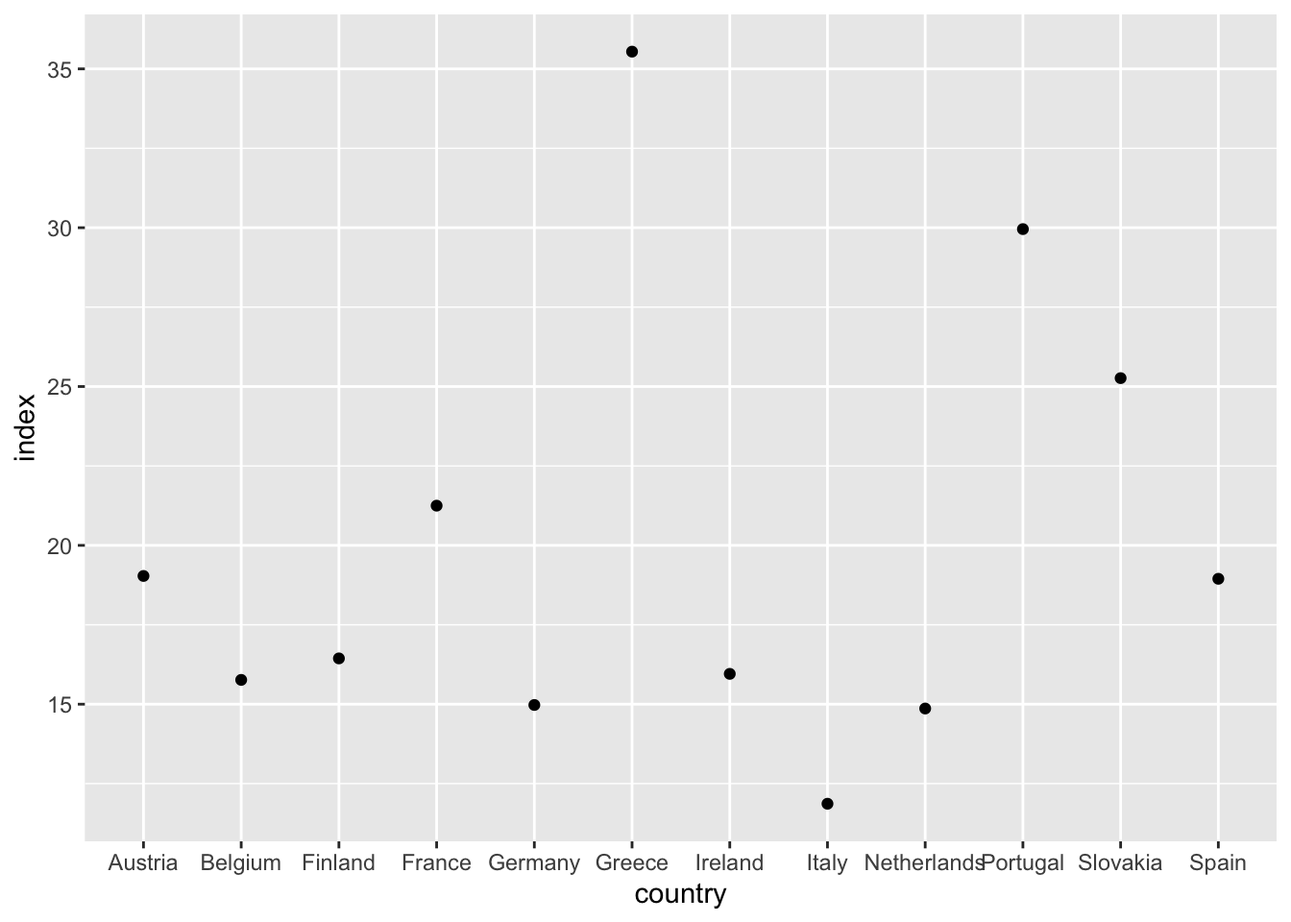
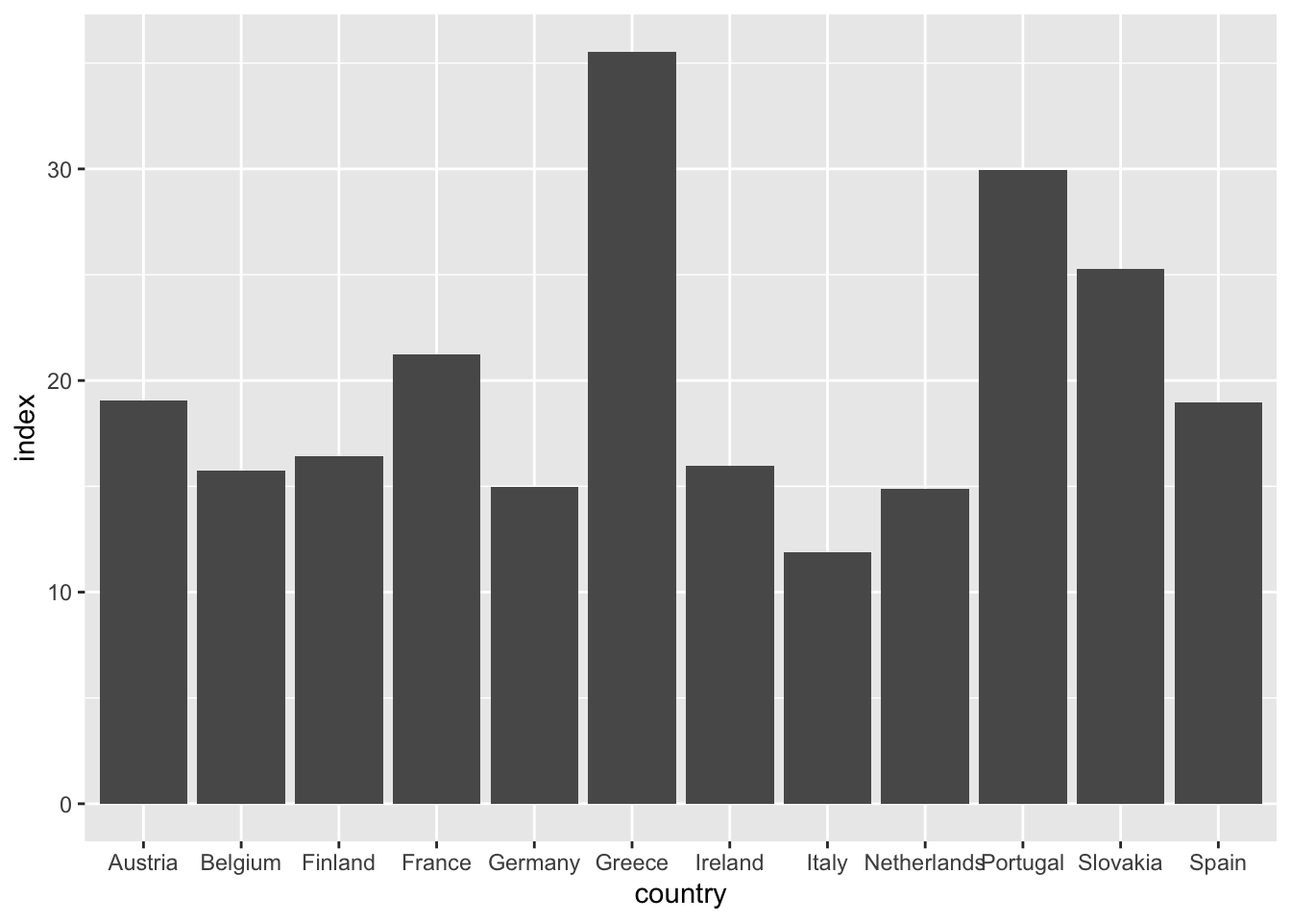
Built site for gh-pages

diff --git a/tt/HW1_212.html b/tt/HW1_212.html
@@ -437,11 +437,9 @@ cookieconsent.run({
         <nav id="TOC" role="doc-toc" class="toc-active" data-toc-expanded="99"><h2 id="toc-title">Table of contents</h2>
    
   <ul>
-<li><a href="#cappuccino-index-price-of-cappuccinohourly-wage-x-60" id="toc-cappuccino-index-price-of-cappuccinohourly-wage-x-60" class="nav-link active" data-scroll-target="#cappuccino-index-price-of-cappuccinohourly-wage-x-60">Cappuccino index = (price of cappuccino/hourly wage) x 60</a></li>
-  <li><a href="#arrange-descending-index-for-all-countries-and-then-filter-for-countries-with-10-or-more-entries" id="toc-arrange-descending-index-for-all-countries-and-then-filter-for-countries-with-10-or-more-entries" class="nav-link" data-scroll-target="#arrange-descending-index-for-all-countries-and-then-filter-for-countries-with-10-or-more-entries">Arrange descending index for all countries and then filter for countries with 10 or more entries</a></li>
-  <li><a href="#join-the-2-datasets-to-only-use-countries-with-10-or-more-entries-and-group-by-country" id="toc-join-the-2-datasets-to-only-use-countries-with-10-or-more-entries-and-group-by-country" class="nav-link" data-scroll-target="#join-the-2-datasets-to-only-use-countries-with-10-or-more-entries-and-group-by-country">Join the 2 datasets to only use countries with 10 or more entries and group by country</a></li>
-  <li><a href="#research-question-do-countries-with-original-currency-of-euros-tend-to-have-a-better-cappuccino-index" id="toc-research-question-do-countries-with-original-currency-of-euros-tend-to-have-a-better-cappuccino-index" class="nav-link" data-scroll-target="#research-question-do-countries-with-original-currency-of-euros-tend-to-have-a-better-cappuccino-index">Research Question: Do countries with original currency of Euros tend to have a better cappuccino index?</a></li>
-  <li><a href="#make-some-graphs" id="toc-make-some-graphs" class="nav-link" data-scroll-target="#make-some-graphs">Make some graphs!</a></li>
+<li><a href="#reseach-question-is-there-a-clear-difference-in-the-cappuccino-index-between-countries-that-use-euro-currency-vs-non-euro-currency" id="toc-reseach-question-is-there-a-clear-difference-in-the-cappuccino-index-between-countries-that-use-euro-currency-vs-non-euro-currency" class="nav-link active" data-scroll-target="#reseach-question-is-there-a-clear-difference-in-the-cappuccino-index-between-countries-that-use-euro-currency-vs-non-euro-currency">Reseach Question: Is there a clear difference in the Cappuccino Index between countries that use Euro currency vs non-Euro currency?</a></li>
+  <li><a href="#process" id="toc-process" class="nav-link" data-scroll-target="#process">Process</a></li>
+  <li><a href="#conclusion-there-is-a-clear-difference-between-countries-that-use-euro-currency-and-countries-that-dont.-however-their-means-are-relatively-similar-as-seen-on-the-graph.-india-is-a-huge-outlier-on-the-graph-which-was-expected-as-seen-in-the-video-by-james-hoffmann.-overall-there-are-many-more-countries-in-the-non-euro-dataset-meaning-that-it-isnt-surprising-for-there-to-be-a-much-wider-span-of-indexes." id="toc-conclusion-there-is-a-clear-difference-between-countries-that-use-euro-currency-and-countries-that-dont.-however-their-means-are-relatively-similar-as-seen-on-the-graph.-india-is-a-huge-outlier-on-the-graph-which-was-expected-as-seen-in-the-video-by-james-hoffmann.-overall-there-are-many-more-countries-in-the-non-euro-dataset-meaning-that-it-isnt-surprising-for-there-to-be-a-much-wider-span-of-indexes." class="nav-link" data-scroll-target="#conclusion-there-is-a-clear-difference-between-countries-that-use-euro-currency-and-countries-that-dont.-however-their-means-are-relatively-similar-as-seen-on-the-graph.-india-is-a-huge-outlier-on-the-graph-which-was-expected-as-seen-in-the-video-by-james-hoffmann.-overall-there-are-many-more-countries-in-the-non-euro-dataset-meaning-that-it-isnt-surprising-for-there-to-be-a-much-wider-span-of-indexes.">Conclusion: There is a clear difference between countries that use Euro currency and countries that don’t. However their means are relatively similar as seen on the graph. India is a huge outlier on the graph, which was expected as seen in the video by James Hoffmann. Overall, there are many more countries in the non euro dataset, meaning that it isn’t surprising for there to be a much wider span of indexes.</a></li>
   </ul></nav>
     </div>
 <!-- main -->
@@ -463,26 +461,30 @@ cookieconsent.run({
 </header><div class="cell">
 <details class="code-fold"><summary>Code</summary><div class="code-copy-outer-scaffold"><div class="sourceCode cell-code" id="cb1"><pre class="sourceCode numberSource r number-lines code-with-copy"><code class="sourceCode r"><span id="cb1-1"><a href="#cb1-1"></a><span class="fu">library</span>(tidyverse)</span>
 <span id="cb1-2"><a href="#cb1-2"></a><span class="fu">library</span>(mosaic)</span>
-<span id="cb1-3"><a href="#cb1-3"></a></span>
-<span id="cb1-4"><a href="#cb1-4"></a><span class="co"># Using R</span></span>
-<span id="cb1-5"><a href="#cb1-5"></a><span class="co"># Option 1: tidytuesdayR R package </span></span>
-<span id="cb1-6"><a href="#cb1-6"></a><span class="do">## install.packages("tidytuesdayR")</span></span>
-<span id="cb1-7"><a href="#cb1-7"></a></span>
-<span id="cb1-8"><a href="#cb1-8"></a>tuesdata <span class="ot">&lt;-</span> tidytuesdayR<span class="sc">::</span><span class="fu">tt_load</span>(<span class="st">'2026-09-08'</span>)</span>
-<span id="cb1-9"><a href="#cb1-9"></a><span class="do">## OR</span></span>
-<span id="cb1-10"><a href="#cb1-10"></a>tuesdata <span class="ot">&lt;-</span> tidytuesdayR<span class="sc">::</span><span class="fu">tt_load</span>(<span class="dv">2026</span>, <span class="at">week =</span> <span class="dv">36</span>)</span>
-<span id="cb1-11"><a href="#cb1-11"></a></span>
-<span id="cb1-12"><a href="#cb1-12"></a>cafe <span class="ot">&lt;-</span> tuesdata<span class="sc">$</span>cafe</span>
-<span id="cb1-13"><a href="#cb1-13"></a>cappuccino_index <span class="ot">&lt;-</span> tuesdata<span class="sc">$</span>cappuccino_index</span>
-<span id="cb1-14"><a href="#cb1-14"></a></span>
-<span id="cb1-15"><a href="#cb1-15"></a><span class="co"># Option 2: Read directly from GitHub</span></span>
+<span id="cb1-3"><a href="#cb1-3"></a><span class="fu">library</span>(patchwork)</span>
+<span id="cb1-4"><a href="#cb1-4"></a><span class="fu">library</span>(ggplot2)</span>
+<span id="cb1-5"><a href="#cb1-5"></a></span>
+<span id="cb1-6"><a href="#cb1-6"></a><span class="co"># Using R</span></span>
+<span id="cb1-7"><a href="#cb1-7"></a><span class="co"># Option 1: tidytuesdayR R package </span></span>
+<span id="cb1-8"><a href="#cb1-8"></a><span class="do">## install.packages("tidytuesdayR")</span></span>
+<span id="cb1-9"><a href="#cb1-9"></a></span>
+<span id="cb1-10"><a href="#cb1-10"></a>tuesdata <span class="ot">&lt;-</span> tidytuesdayR<span class="sc">::</span><span class="fu">tt_load</span>(<span class="st">'2026-09-08'</span>)</span>
+<span id="cb1-11"><a href="#cb1-11"></a><span class="do">## OR</span></span>
+<span id="cb1-12"><a href="#cb1-12"></a>tuesdata <span class="ot">&lt;-</span> tidytuesdayR<span class="sc">::</span><span class="fu">tt_load</span>(<span class="dv">2026</span>, <span class="at">week =</span> <span class="dv">36</span>)</span>
+<span id="cb1-13"><a href="#cb1-13"></a></span>
+<span id="cb1-14"><a href="#cb1-14"></a>cafe <span class="ot">&lt;-</span> tuesdata<span class="sc">$</span>cafe</span>
+<span id="cb1-15"><a href="#cb1-15"></a>cappuccino_index <span class="ot">&lt;-</span> tuesdata<span class="sc">$</span>cappuccino_index</span>
 <span id="cb1-16"><a href="#cb1-16"></a></span>
-<span id="cb1-17"><a href="#cb1-17"></a>cafe <span class="ot">&lt;-</span> readr<span class="sc">::</span><span class="fu">read_csv</span>(<span class="st">'https://raw.githubusercontent.com/rfordatascience/tidytuesday/main/data/2026/2026-09-08/cafe.csv'</span>)</span>
-<span id="cb1-18"><a href="#cb1-18"></a>cappuccino_index <span class="ot">&lt;-</span> readr<span class="sc">::</span><span class="fu">read_csv</span>(<span class="st">'https://raw.githubusercontent.com/rfordatascience/tidytuesday/main/data/2026/2026-09-08/cappuccino_index.csv'</span>)</span></code></pre></div><button title="Copy to Clipboard" class="code-copy-button"><i class="bi"></i></button></div>
+<span id="cb1-17"><a href="#cb1-17"></a><span class="co"># Option 2: Read directly from GitHub</span></span>
+<span id="cb1-18"><a href="#cb1-18"></a></span>
+<span id="cb1-19"><a href="#cb1-19"></a>cafe <span class="ot">&lt;-</span> readr<span class="sc">::</span><span class="fu">read_csv</span>(<span class="st">'https://raw.githubusercontent.com/rfordatascience/tidytuesday/main/data/2026/2026-09-08/cafe.csv'</span>)</span>
+<span id="cb1-20"><a href="#cb1-20"></a>cappuccino_index <span class="ot">&lt;-</span> readr<span class="sc">::</span><span class="fu">read_csv</span>(<span class="st">'https://raw.githubusercontent.com/rfordatascience/tidytuesday/main/data/2026/2026-09-08/cappuccino_index.csv'</span>)</span></code></pre></div><button title="Copy to Clipboard" class="code-copy-button"><i class="bi"></i></button></div>
 </details>
 </div>
-<section id="cappuccino-index-price-of-cappuccinohourly-wage-x-60" class="level1"><h1>Cappuccino index = (price of cappuccino/hourly wage) x 60</h1>
-</section><section id="arrange-descending-index-for-all-countries-and-then-filter-for-countries-with-10-or-more-entries" class="level1"><h1>Arrange descending index for all countries and then filter for countries with 10 or more entries</h1>
+<p>Cappuccino index = (price of cappuccino/hourly wage) x 60</p>
+<section id="reseach-question-is-there-a-clear-difference-in-the-cappuccino-index-between-countries-that-use-euro-currency-vs-non-euro-currency" class="level1"><h1>Reseach Question: Is there a clear difference in the Cappuccino Index between countries that use Euro currency vs non-Euro currency?</h1>
+</section><section id="process" class="level1"><h1>Process</h1>
+<p>Data Wrangling: Arrange descending index for all countries and then filter for countries with 10 or more entries</p>
 <div class="cell">
 <details class="code-fold"><summary>Code</summary><div class="code-copy-outer-scaffold"><div class="sourceCode cell-code" id="cb2"><pre class="sourceCode numberSource r number-lines code-with-copy"><code class="sourceCode r"><span id="cb2-1"><a href="#cb2-1"></a>cappuccino_index <span class="sc">%&gt;%</span></span>
 <span id="cb2-2"><a href="#cb2-2"></a>  <span class="fu">arrange</span>(<span class="fu">desc</span>(index))</span></code></pre></div><button title="Copy to Clipboard" class="code-copy-button"><i class="bi"></i></button></div>
@@ -522,7 +524,7 @@ cookieconsent.run({
 # ℹ 26 more rows</code></pre>
 </div>
 </div>
-</section><section id="join-the-2-datasets-to-only-use-countries-with-10-or-more-entries-and-group-by-country" class="level1"><h1>Join the 2 datasets to only use countries with 10 or more entries and group by country</h1>
+<p>Join the 2 datasets to only use countries with 10 or more entries and group by country</p>
 <div class="cell">
 <details class="code-fold"><summary>Code</summary><div class="code-copy-outer-scaffold"><div class="sourceCode cell-code" id="cb6"><pre class="sourceCode numberSource r number-lines code-with-copy"><code class="sourceCode r"><span id="cb6-1"><a href="#cb6-1"></a>cappuccino <span class="ot">&lt;-</span> cafe <span class="sc">%&gt;%</span></span>
 <span id="cb6-2"><a href="#cb6-2"></a>  <span class="fu">inner_join</span>(index_filtered, <span class="at">by =</span> <span class="st">"country"</span>) <span class="sc">%&gt;%</span></span>
@@ -549,8 +551,7 @@ cookieconsent.run({
 # ℹ 3 more variables: n &lt;dbl&gt;, minutes &lt;dbl&gt;, seconds &lt;dbl&gt;</code></pre>
 </div>
 </div>
-</section><section id="research-question-do-countries-with-original-currency-of-euros-tend-to-have-a-better-cappuccino-index" class="level1"><h1>Research Question: Do countries with original currency of Euros tend to have a better cappuccino index?</h1>
-</section><section id="make-some-graphs" class="level1"><h1>Make some graphs!</h1>
+<p>Make some graphs to better understand the relationships!</p>
 <div class="cell">
 <details class="code-fold"><summary>Code</summary><div class="code-copy-outer-scaffold"><div class="sourceCode cell-code" id="cb8"><pre class="sourceCode numberSource r number-lines code-with-copy"><code class="sourceCode r"><span id="cb8-1"><a href="#cb8-1"></a>cappuccino_euro <span class="ot">&lt;-</span> cappuccino <span class="sc">%&gt;%</span></span>
 <span id="cb8-2"><a href="#cb8-2"></a>  <span class="fu">filter</span>(original_currency <span class="sc">==</span> <span class="st">"EUR - Euro"</span>)</span>
@@ -595,7 +596,7 @@ cookieconsent.run({
 </div>
 <details class="code-fold"><summary>Code</summary><div class="code-copy-outer-scaffold"><div class="sourceCode cell-code" id="cb12"><pre class="sourceCode numberSource r number-lines code-with-copy"><code class="sourceCode r"><span id="cb12-1"><a href="#cb12-1"></a>plot1 <span class="ot">&lt;-</span> cappuccino_euro <span class="sc">%&gt;%</span></span>
 <span id="cb12-2"><a href="#cb12-2"></a>  <span class="fu">ggplot</span>(<span class="fu">aes</span>(<span class="at">x =</span> country, <span class="at">y =</span> index)) <span class="sc">+</span></span>
-<span id="cb12-3"><a href="#cb12-3"></a>  <span class="fu">geom_point</span>() </span>
+<span id="cb12-3"><a href="#cb12-3"></a>  <span class="fu">geom_col</span>() </span>
 <span id="cb12-4"><a href="#cb12-4"></a>plot1</span></code></pre></div><button title="Copy to Clipboard" class="code-copy-button"><i class="bi"></i></button></div>
 </details><div class="cell-output-display">
 <div>
@@ -603,7 +604,55 @@ cookieconsent.run({
 </figure>
 </div>
 </div>
+<details class="code-fold"><summary>Code</summary><div class="code-copy-outer-scaffold"><div class="sourceCode cell-code" id="cb13"><pre class="sourceCode numberSource r number-lines code-with-copy"><code class="sourceCode r"><span id="cb13-1"><a href="#cb13-1"></a>plot2 <span class="ot">&lt;-</span> cappuccino_noteuro <span class="sc">%&gt;%</span></span>
+<span id="cb13-2"><a href="#cb13-2"></a>  <span class="fu">ggplot</span>(<span class="fu">aes</span>(<span class="at">x =</span> country, <span class="at">y =</span> index)) <span class="sc">+</span></span>
+<span id="cb13-3"><a href="#cb13-3"></a>  <span class="fu">geom_col</span>()</span>
+<span id="cb13-4"><a href="#cb13-4"></a>plot2</span></code></pre></div><button title="Copy to Clipboard" class="code-copy-button"><i class="bi"></i></button></div>
+</details><div class="cell-output-display">
+<div>
+<figure class="figure"><p><img src="HW1_212_files/figure-html/unnamed-chunk-4-2.png" class="img-fluid figure-img" width="672"></p>
+</figure>
 </div>
+</div>
+</div>
+<div class="cell">
+<details class="code-fold"><summary>Code</summary><div class="code-copy-outer-scaffold"><div class="sourceCode cell-code" id="cb14"><pre class="sourceCode numberSource r number-lines code-with-copy"><code class="sourceCode r"><span id="cb14-1"><a href="#cb14-1"></a>plot1 <span class="ot">&lt;-</span> cappuccino_euro <span class="sc">%&gt;%</span></span>
+<span id="cb14-2"><a href="#cb14-2"></a>  <span class="fu">ggplot</span>(<span class="fu">aes</span>(<span class="at">y =</span> index)) <span class="sc">+</span></span>
+<span id="cb14-3"><a href="#cb14-3"></a>  <span class="fu">geom_boxplot</span>(<span class="at">fill =</span> <span class="st">"#77aadd"</span>) <span class="sc">+</span></span>
+<span id="cb14-4"><a href="#cb14-4"></a>  <span class="fu">labs</span>(<span class="at">x =</span> <span class="st">"Euro Currency"</span>, <span class="at">y =</span> <span class="st">"Cappuccino Index"</span>) <span class="sc">+</span></span>
+<span id="cb14-5"><a href="#cb14-5"></a>  <span class="fu">theme_minimal</span>()</span>
+<span id="cb14-6"><a href="#cb14-6"></a>plot1</span></code></pre></div><button title="Copy to Clipboard" class="code-copy-button"><i class="bi"></i></button></div>
+</details><div class="cell-output-display">
+<div>
+<figure class="figure"><p><img src="HW1_212_files/figure-html/unnamed-chunk-5-1.png" class="img-fluid figure-img" width="672"></p>
+</figure>
+</div>
+</div>
+<details class="code-fold"><summary>Code</summary><div class="code-copy-outer-scaffold"><div class="sourceCode cell-code" id="cb15"><pre class="sourceCode numberSource r number-lines code-with-copy"><code class="sourceCode r"><span id="cb15-1"><a href="#cb15-1"></a>plot2 <span class="ot">&lt;-</span> cappuccino_noteuro <span class="sc">%&gt;%</span></span>
+<span id="cb15-2"><a href="#cb15-2"></a>  <span class="fu">ggplot</span>(<span class="fu">aes</span>(<span class="at">y =</span> index,)) <span class="sc">+</span></span>
+<span id="cb15-3"><a href="#cb15-3"></a>  <span class="fu">geom_boxplot</span>(<span class="at">fill =</span> <span class="st">"#ee8866"</span>) <span class="sc">+</span></span>
+<span id="cb15-4"><a href="#cb15-4"></a>  <span class="fu">labs</span>(<span class="at">x =</span> <span class="st">"Other Currency"</span>, <span class="at">y =</span> <span class="st">"Cappuccino Index"</span>) <span class="sc">+</span></span>
+<span id="cb15-5"><a href="#cb15-5"></a>  <span class="fu">theme_minimal</span>()</span>
+<span id="cb15-6"><a href="#cb15-6"></a>plot2</span></code></pre></div><button title="Copy to Clipboard" class="code-copy-button"><i class="bi"></i></button></div>
+</details><div class="cell-output-display">
+<div>
+<figure class="figure"><p><img src="HW1_212_files/figure-html/unnamed-chunk-5-2.png" class="img-fluid figure-img" width="672"></p>
+</figure>
+</div>
+</div>
+<details class="code-fold"><summary>Code</summary><div class="code-copy-outer-scaffold"><div class="sourceCode cell-code" id="cb16"><pre class="sourceCode numberSource r number-lines code-with-copy"><code class="sourceCode r"><span id="cb16-1"><a href="#cb16-1"></a>(plot1 <span class="sc">+</span> plot2) <span class="sc">&amp;</span> </span>
+<span id="cb16-2"><a href="#cb16-2"></a>  <span class="fu">coord_cartesian</span>(<span class="at">ylim =</span> <span class="fu">c</span>(<span class="dv">0</span>, <span class="dv">180</span>)) <span class="sc">&amp;</span> </span>
+<span id="cb16-3"><a href="#cb16-3"></a>  <span class="fu">theme</span>(<span class="at">axis.text.x =</span> <span class="fu">element_blank</span>(), <span class="at">axis.ticks.x =</span> <span class="fu">element_blank</span>()) <span class="sc">&amp;</span></span>
+<span id="cb16-4"><a href="#cb16-4"></a>  <span class="fu">plot_annotation</span>(<span class="at">title =</span> <span class="st">"The Cappucino Index"</span>, <span class="at">subtitle =</span> <span class="st">"In Euro vs Non-Euro Using Countries"</span>, <span class="at">caption =</span> <span class="st">"Eliza Palmer, 9/14/2026, Data from James Hoffmann"</span>,</span>
+<span id="cb16-5"><a href="#cb16-5"></a>                  <span class="at">theme =</span> <span class="fu">theme</span>(<span class="at">plot.title =</span> <span class="fu">element_text</span>(<span class="at">hjust =</span> <span class="fl">0.5</span>, <span class="at">face =</span> <span class="st">"bold"</span>, <span class="at">size =</span> <span class="dv">16</span>), <span class="at">plot.subtitle =</span> <span class="fu">element_text</span>(<span class="at">hjust =</span> <span class="fl">0.5</span>), <span class="at">plot.caption =</span> <span class="fu">element_text</span>(<span class="at">size =</span> <span class="dv">6</span>)))</span></code></pre></div><button title="Copy to Clipboard" class="code-copy-button"><i class="bi"></i></button></div>
+</details><div class="cell-output-display">
+<div>
+<figure class="figure"><p><img src="HW1_212_files/figure-html/unnamed-chunk-5-3.png" class="img-fluid figure-img" width="672"></p>
+</figure>
+</div>
+</div>
+</div>
+</section><section id="conclusion-there-is-a-clear-difference-between-countries-that-use-euro-currency-and-countries-that-dont.-however-their-means-are-relatively-similar-as-seen-on-the-graph.-india-is-a-huge-outlier-on-the-graph-which-was-expected-as-seen-in-the-video-by-james-hoffmann.-overall-there-are-many-more-countries-in-the-non-euro-dataset-meaning-that-it-isnt-surprising-for-there-to-be-a-much-wider-span-of-indexes." class="level1"><h1>Conclusion: There is a clear difference between countries that use Euro currency and countries that don’t. However their means are relatively similar as seen on the graph. India is a huge outlier on the graph, which was expected as seen in the video by James Hoffmann. Overall, there are many more countries in the non euro dataset, meaning that it isn’t surprising for there to be a much wider span of indexes.</h1>
 
 
 <!-- -->
@@ -1087,74 +1136,109 @@ cookieconsent.run({
       </a>
   </div>
 </nav><div class="modal fade" id="quarto-embedded-source-code-modal" tabindex="-1" aria-labelledby="quarto-embedded-source-code-modal-label" aria-hidden="true"><div class="modal-dialog modal-dialog-scrollable"><div class="modal-content"><div class="modal-header"><h5 class="modal-title" id="quarto-embedded-source-code-modal-label">Source Code</h5><button class="btn-close" data-bs-dismiss="modal"></button></div><div class="modal-body"><div class="">
-<div class="code-copy-outer-scaffold"><div class="sourceCode" id="cb13" data-shortcodes="false"><pre class="sourceCode numberSource markdown number-lines code-with-copy"><code class="sourceCode markdown"><span id="cb13-1"><a href="#cb13-1"></a><span class="co">---</span></span>
-<span id="cb13-2"><a href="#cb13-2"></a><span class="an">title:</span><span class="co"> "HW1_212"</span></span>
-<span id="cb13-3"><a href="#cb13-3"></a><span class="co">---</span></span>
-<span id="cb13-4"><a href="#cb13-4"></a></span>
-<span id="cb13-7"><a href="#cb13-7"></a><span class="in">```{r}</span></span>
-<span id="cb13-8"><a href="#cb13-8"></a><span class="fu">library</span>(tidyverse)</span>
-<span id="cb13-9"><a href="#cb13-9"></a><span class="fu">library</span>(mosaic)</span>
-<span id="cb13-10"><a href="#cb13-10"></a></span>
-<span id="cb13-11"><a href="#cb13-11"></a><span class="co"># Using R</span></span>
-<span id="cb13-12"><a href="#cb13-12"></a><span class="co"># Option 1: tidytuesdayR R package </span></span>
-<span id="cb13-13"><a href="#cb13-13"></a><span class="do">## install.packages("tidytuesdayR")</span></span>
-<span id="cb13-14"><a href="#cb13-14"></a></span>
-<span id="cb13-15"><a href="#cb13-15"></a>tuesdata <span class="ot">&lt;-</span> tidytuesdayR<span class="sc">::</span><span class="fu">tt_load</span>(<span class="st">'2026-09-08'</span>)</span>
-<span id="cb13-16"><a href="#cb13-16"></a><span class="do">## OR</span></span>
-<span id="cb13-17"><a href="#cb13-17"></a>tuesdata <span class="ot">&lt;-</span> tidytuesdayR<span class="sc">::</span><span class="fu">tt_load</span>(<span class="dv">2026</span>, <span class="at">week =</span> <span class="dv">36</span>)</span>
-<span id="cb13-18"><a href="#cb13-18"></a></span>
-<span id="cb13-19"><a href="#cb13-19"></a>cafe <span class="ot">&lt;-</span> tuesdata<span class="sc">$</span>cafe</span>
-<span id="cb13-20"><a href="#cb13-20"></a>cappuccino_index <span class="ot">&lt;-</span> tuesdata<span class="sc">$</span>cappuccino_index</span>
-<span id="cb13-21"><a href="#cb13-21"></a></span>
-<span id="cb13-22"><a href="#cb13-22"></a><span class="co"># Option 2: Read directly from GitHub</span></span>
-<span id="cb13-23"><a href="#cb13-23"></a></span>
-<span id="cb13-24"><a href="#cb13-24"></a>cafe <span class="ot">&lt;-</span> readr<span class="sc">::</span><span class="fu">read_csv</span>(<span class="st">'https://raw.githubusercontent.com/rfordatascience/tidytuesday/main/data/2026/2026-09-08/cafe.csv'</span>)</span>
-<span id="cb13-25"><a href="#cb13-25"></a>cappuccino_index <span class="ot">&lt;-</span> readr<span class="sc">::</span><span class="fu">read_csv</span>(<span class="st">'https://raw.githubusercontent.com/rfordatascience/tidytuesday/main/data/2026/2026-09-08/cappuccino_index.csv'</span>)</span>
-<span id="cb13-26"><a href="#cb13-26"></a><span class="in">```</span></span>
-<span id="cb13-27"><a href="#cb13-27"></a></span>
-<span id="cb13-28"><a href="#cb13-28"></a><span class="fu"># Cappuccino index = (price of cappuccino/hourly wage) x 60</span></span>
-<span id="cb13-29"><a href="#cb13-29"></a></span>
-<span id="cb13-30"><a href="#cb13-30"></a><span class="fu"># Arrange descending index for all countries and then filter for countries with 10 or more entries</span></span>
-<span id="cb13-31"><a href="#cb13-31"></a></span>
-<span id="cb13-34"><a href="#cb13-34"></a><span class="in">```{r}</span></span>
-<span id="cb13-35"><a href="#cb13-35"></a>cappuccino_index <span class="sc">%&gt;%</span></span>
-<span id="cb13-36"><a href="#cb13-36"></a>  <span class="fu">arrange</span>(<span class="fu">desc</span>(index))</span>
-<span id="cb13-37"><a href="#cb13-37"></a></span>
-<span id="cb13-38"><a href="#cb13-38"></a>index_filtered <span class="ot">&lt;-</span> cappuccino_index <span class="sc">%&gt;%</span></span>
-<span id="cb13-39"><a href="#cb13-39"></a>  <span class="fu">filter</span>(n <span class="sc">&gt;=</span> <span class="dv">10</span>)</span>
-<span id="cb13-40"><a href="#cb13-40"></a>index_filtered</span>
-<span id="cb13-41"><a href="#cb13-41"></a><span class="in">```</span></span>
-<span id="cb13-42"><a href="#cb13-42"></a></span>
-<span id="cb13-43"><a href="#cb13-43"></a><span class="fu"># Join the 2 datasets to only use countries with 10 or more entries and group by country</span></span>
-<span id="cb13-44"><a href="#cb13-44"></a></span>
-<span id="cb13-47"><a href="#cb13-47"></a><span class="in">```{r}</span></span>
-<span id="cb13-48"><a href="#cb13-48"></a>cappuccino <span class="ot">&lt;-</span> cafe <span class="sc">%&gt;%</span></span>
-<span id="cb13-49"><a href="#cb13-49"></a>  <span class="fu">inner_join</span>(index_filtered, <span class="at">by =</span> <span class="st">"country"</span>) <span class="sc">%&gt;%</span></span>
-<span id="cb13-50"><a href="#cb13-50"></a>  <span class="fu">group_by</span>(country) <span class="sc">%&gt;%</span></span>
-<span id="cb13-51"><a href="#cb13-51"></a>    <span class="fu">summarize</span>(</span>
-<span id="cb13-52"><a href="#cb13-52"></a>    <span class="at">original_currency =</span> <span class="fu">first</span>(original_currency),</span>
-<span id="cb13-53"><a href="#cb13-53"></a>    <span class="fu">across</span>(<span class="fu">where</span>(is.numeric), <span class="sc">~</span><span class="fu">mean</span>(.x, <span class="at">na.rm =</span> <span class="cn">TRUE</span>)))</span>
-<span id="cb13-54"><a href="#cb13-54"></a>cappuccino</span>
-<span id="cb13-55"><a href="#cb13-55"></a><span class="in">```</span></span>
-<span id="cb13-56"><a href="#cb13-56"></a></span>
-<span id="cb13-57"><a href="#cb13-57"></a><span class="fu"># Research Question: Do countries with original currency of Euros tend to have a better cappuccino index?</span></span>
-<span id="cb13-58"><a href="#cb13-58"></a></span>
-<span id="cb13-59"><a href="#cb13-59"></a><span class="fu"># Make some graphs!</span></span>
-<span id="cb13-60"><a href="#cb13-60"></a></span>
-<span id="cb13-63"><a href="#cb13-63"></a><span class="in">```{r}</span></span>
-<span id="cb13-64"><a href="#cb13-64"></a>cappuccino_euro <span class="ot">&lt;-</span> cappuccino <span class="sc">%&gt;%</span></span>
-<span id="cb13-65"><a href="#cb13-65"></a>  <span class="fu">filter</span>(original_currency <span class="sc">==</span> <span class="st">"EUR - Euro"</span>)</span>
-<span id="cb13-66"><a href="#cb13-66"></a>cappuccino_euro</span>
-<span id="cb13-67"><a href="#cb13-67"></a></span>
-<span id="cb13-68"><a href="#cb13-68"></a>cappuccino_noteuro <span class="ot">&lt;-</span> cappuccino <span class="sc">%&gt;%</span></span>
-<span id="cb13-69"><a href="#cb13-69"></a>  <span class="fu">filter</span>(original_currency <span class="sc">!=</span> <span class="st">"EUR - Euro"</span>)</span>
-<span id="cb13-70"><a href="#cb13-70"></a>cappuccino_noteuro</span>
-<span id="cb13-71"><a href="#cb13-71"></a></span>
-<span id="cb13-72"><a href="#cb13-72"></a>plot1 <span class="ot">&lt;-</span> cappuccino_euro <span class="sc">%&gt;%</span></span>
-<span id="cb13-73"><a href="#cb13-73"></a>  <span class="fu">ggplot</span>(<span class="fu">aes</span>(<span class="at">x =</span> country, <span class="at">y =</span> index)) <span class="sc">+</span></span>
-<span id="cb13-74"><a href="#cb13-74"></a>  <span class="fu">geom_point</span>() </span>
-<span id="cb13-75"><a href="#cb13-75"></a>plot1</span>
-<span id="cb13-76"><a href="#cb13-76"></a><span class="in">```</span></span>
+<div class="code-copy-outer-scaffold"><div class="sourceCode" id="cb17" data-shortcodes="false"><pre class="sourceCode numberSource markdown number-lines code-with-copy"><code class="sourceCode markdown"><span id="cb17-1"><a href="#cb17-1"></a><span class="co">---</span></span>
+<span id="cb17-2"><a href="#cb17-2"></a><span class="an">title:</span><span class="co"> "HW1_212"</span></span>
+<span id="cb17-3"><a href="#cb17-3"></a><span class="co">---</span></span>
+<span id="cb17-4"><a href="#cb17-4"></a></span>
+<span id="cb17-7"><a href="#cb17-7"></a><span class="in">```{r}</span></span>
+<span id="cb17-8"><a href="#cb17-8"></a><span class="fu">library</span>(tidyverse)</span>
+<span id="cb17-9"><a href="#cb17-9"></a><span class="fu">library</span>(mosaic)</span>
+<span id="cb17-10"><a href="#cb17-10"></a><span class="fu">library</span>(patchwork)</span>
+<span id="cb17-11"><a href="#cb17-11"></a><span class="fu">library</span>(ggplot2)</span>
+<span id="cb17-12"><a href="#cb17-12"></a></span>
+<span id="cb17-13"><a href="#cb17-13"></a><span class="co"># Using R</span></span>
+<span id="cb17-14"><a href="#cb17-14"></a><span class="co"># Option 1: tidytuesdayR R package </span></span>
+<span id="cb17-15"><a href="#cb17-15"></a><span class="do">## install.packages("tidytuesdayR")</span></span>
+<span id="cb17-16"><a href="#cb17-16"></a></span>
+<span id="cb17-17"><a href="#cb17-17"></a>tuesdata <span class="ot">&lt;-</span> tidytuesdayR<span class="sc">::</span><span class="fu">tt_load</span>(<span class="st">'2026-09-08'</span>)</span>
+<span id="cb17-18"><a href="#cb17-18"></a><span class="do">## OR</span></span>
+<span id="cb17-19"><a href="#cb17-19"></a>tuesdata <span class="ot">&lt;-</span> tidytuesdayR<span class="sc">::</span><span class="fu">tt_load</span>(<span class="dv">2026</span>, <span class="at">week =</span> <span class="dv">36</span>)</span>
+<span id="cb17-20"><a href="#cb17-20"></a></span>
+<span id="cb17-21"><a href="#cb17-21"></a>cafe <span class="ot">&lt;-</span> tuesdata<span class="sc">$</span>cafe</span>
+<span id="cb17-22"><a href="#cb17-22"></a>cappuccino_index <span class="ot">&lt;-</span> tuesdata<span class="sc">$</span>cappuccino_index</span>
+<span id="cb17-23"><a href="#cb17-23"></a></span>
+<span id="cb17-24"><a href="#cb17-24"></a><span class="co"># Option 2: Read directly from GitHub</span></span>
+<span id="cb17-25"><a href="#cb17-25"></a></span>
+<span id="cb17-26"><a href="#cb17-26"></a>cafe <span class="ot">&lt;-</span> readr<span class="sc">::</span><span class="fu">read_csv</span>(<span class="st">'https://raw.githubusercontent.com/rfordatascience/tidytuesday/main/data/2026/2026-09-08/cafe.csv'</span>)</span>
+<span id="cb17-27"><a href="#cb17-27"></a>cappuccino_index <span class="ot">&lt;-</span> readr<span class="sc">::</span><span class="fu">read_csv</span>(<span class="st">'https://raw.githubusercontent.com/rfordatascience/tidytuesday/main/data/2026/2026-09-08/cappuccino_index.csv'</span>)</span>
+<span id="cb17-28"><a href="#cb17-28"></a><span class="in">```</span></span>
+<span id="cb17-29"><a href="#cb17-29"></a></span>
+<span id="cb17-30"><a href="#cb17-30"></a>Cappuccino index = (price of cappuccino/hourly wage) x 60</span>
+<span id="cb17-31"><a href="#cb17-31"></a></span>
+<span id="cb17-32"><a href="#cb17-32"></a><span class="fu"># Reseach Question: Is there a clear difference in the Cappuccino Index between countries that use Euro currency vs non-Euro currency?</span></span>
+<span id="cb17-33"><a href="#cb17-33"></a></span>
+<span id="cb17-34"><a href="#cb17-34"></a><span class="fu"># Process</span></span>
+<span id="cb17-35"><a href="#cb17-35"></a></span>
+<span id="cb17-36"><a href="#cb17-36"></a>Data Wrangling: Arrange descending index for all countries and then filter for countries with 10 or more entries</span>
+<span id="cb17-37"><a href="#cb17-37"></a></span>
+<span id="cb17-40"><a href="#cb17-40"></a><span class="in">```{r}</span></span>
+<span id="cb17-41"><a href="#cb17-41"></a>cappuccino_index <span class="sc">%&gt;%</span></span>
+<span id="cb17-42"><a href="#cb17-42"></a>  <span class="fu">arrange</span>(<span class="fu">desc</span>(index))</span>
+<span id="cb17-43"><a href="#cb17-43"></a></span>
+<span id="cb17-44"><a href="#cb17-44"></a>index_filtered <span class="ot">&lt;-</span> cappuccino_index <span class="sc">%&gt;%</span></span>
+<span id="cb17-45"><a href="#cb17-45"></a>  <span class="fu">filter</span>(n <span class="sc">&gt;=</span> <span class="dv">10</span>)</span>
+<span id="cb17-46"><a href="#cb17-46"></a>index_filtered</span>
+<span id="cb17-47"><a href="#cb17-47"></a><span class="in">```</span></span>
+<span id="cb17-48"><a href="#cb17-48"></a></span>
+<span id="cb17-49"><a href="#cb17-49"></a>Join the 2 datasets to only use countries with 10 or more entries and group by country</span>
+<span id="cb17-50"><a href="#cb17-50"></a></span>
+<span id="cb17-53"><a href="#cb17-53"></a><span class="in">```{r}</span></span>
+<span id="cb17-54"><a href="#cb17-54"></a>cappuccino <span class="ot">&lt;-</span> cafe <span class="sc">%&gt;%</span></span>
+<span id="cb17-55"><a href="#cb17-55"></a>  <span class="fu">inner_join</span>(index_filtered, <span class="at">by =</span> <span class="st">"country"</span>) <span class="sc">%&gt;%</span></span>
+<span id="cb17-56"><a href="#cb17-56"></a>  <span class="fu">group_by</span>(country) <span class="sc">%&gt;%</span></span>
+<span id="cb17-57"><a href="#cb17-57"></a>    <span class="fu">summarize</span>(</span>
+<span id="cb17-58"><a href="#cb17-58"></a>    <span class="at">original_currency =</span> <span class="fu">first</span>(original_currency),</span>
+<span id="cb17-59"><a href="#cb17-59"></a>    <span class="fu">across</span>(<span class="fu">where</span>(is.numeric), <span class="sc">~</span><span class="fu">mean</span>(.x, <span class="at">na.rm =</span> <span class="cn">TRUE</span>)))</span>
+<span id="cb17-60"><a href="#cb17-60"></a>cappuccino</span>
+<span id="cb17-61"><a href="#cb17-61"></a><span class="in">```</span></span>
+<span id="cb17-62"><a href="#cb17-62"></a></span>
+<span id="cb17-63"><a href="#cb17-63"></a>Make some graphs to better understand the relationships!</span>
+<span id="cb17-64"><a href="#cb17-64"></a></span>
+<span id="cb17-67"><a href="#cb17-67"></a><span class="in">```{r}</span></span>
+<span id="cb17-68"><a href="#cb17-68"></a>cappuccino_euro <span class="ot">&lt;-</span> cappuccino <span class="sc">%&gt;%</span></span>
+<span id="cb17-69"><a href="#cb17-69"></a>  <span class="fu">filter</span>(original_currency <span class="sc">==</span> <span class="st">"EUR - Euro"</span>)</span>
+<span id="cb17-70"><a href="#cb17-70"></a>cappuccino_euro</span>
+<span id="cb17-71"><a href="#cb17-71"></a></span>
+<span id="cb17-72"><a href="#cb17-72"></a>cappuccino_noteuro <span class="ot">&lt;-</span> cappuccino <span class="sc">%&gt;%</span></span>
+<span id="cb17-73"><a href="#cb17-73"></a>  <span class="fu">filter</span>(original_currency <span class="sc">!=</span> <span class="st">"EUR - Euro"</span>)</span>
+<span id="cb17-74"><a href="#cb17-74"></a>cappuccino_noteuro</span>
+<span id="cb17-75"><a href="#cb17-75"></a></span>
+<span id="cb17-76"><a href="#cb17-76"></a>plot1 <span class="ot">&lt;-</span> cappuccino_euro <span class="sc">%&gt;%</span></span>
+<span id="cb17-77"><a href="#cb17-77"></a>  <span class="fu">ggplot</span>(<span class="fu">aes</span>(<span class="at">x =</span> country, <span class="at">y =</span> index)) <span class="sc">+</span></span>
+<span id="cb17-78"><a href="#cb17-78"></a>  <span class="fu">geom_col</span>() </span>
+<span id="cb17-79"><a href="#cb17-79"></a>plot1</span>
+<span id="cb17-80"><a href="#cb17-80"></a></span>
+<span id="cb17-81"><a href="#cb17-81"></a>plot2 <span class="ot">&lt;-</span> cappuccino_noteuro <span class="sc">%&gt;%</span></span>
+<span id="cb17-82"><a href="#cb17-82"></a>  <span class="fu">ggplot</span>(<span class="fu">aes</span>(<span class="at">x =</span> country, <span class="at">y =</span> index)) <span class="sc">+</span></span>
+<span id="cb17-83"><a href="#cb17-83"></a>  <span class="fu">geom_col</span>()</span>
+<span id="cb17-84"><a href="#cb17-84"></a>plot2</span>
+<span id="cb17-85"><a href="#cb17-85"></a><span class="in">```</span></span>
+<span id="cb17-86"><a href="#cb17-86"></a></span>
+<span id="cb17-89"><a href="#cb17-89"></a><span class="in">```{r}</span></span>
+<span id="cb17-90"><a href="#cb17-90"></a>plot1 <span class="ot">&lt;-</span> cappuccino_euro <span class="sc">%&gt;%</span></span>
+<span id="cb17-91"><a href="#cb17-91"></a>  <span class="fu">ggplot</span>(<span class="fu">aes</span>(<span class="at">y =</span> index)) <span class="sc">+</span></span>
+<span id="cb17-92"><a href="#cb17-92"></a>  <span class="fu">geom_boxplot</span>(<span class="at">fill =</span> <span class="st">"#77aadd"</span>) <span class="sc">+</span></span>
+<span id="cb17-93"><a href="#cb17-93"></a>  <span class="fu">labs</span>(<span class="at">x =</span> <span class="st">"Euro Currency"</span>, <span class="at">y =</span> <span class="st">"Cappuccino Index"</span>) <span class="sc">+</span></span>
+<span id="cb17-94"><a href="#cb17-94"></a>  <span class="fu">theme_minimal</span>()</span>
+<span id="cb17-95"><a href="#cb17-95"></a>plot1</span>
+<span id="cb17-96"><a href="#cb17-96"></a></span>
+<span id="cb17-97"><a href="#cb17-97"></a>plot2 <span class="ot">&lt;-</span> cappuccino_noteuro <span class="sc">%&gt;%</span></span>
+<span id="cb17-98"><a href="#cb17-98"></a>  <span class="fu">ggplot</span>(<span class="fu">aes</span>(<span class="at">y =</span> index,)) <span class="sc">+</span></span>
+<span id="cb17-99"><a href="#cb17-99"></a>  <span class="fu">geom_boxplot</span>(<span class="at">fill =</span> <span class="st">"#ee8866"</span>) <span class="sc">+</span></span>
+<span id="cb17-100"><a href="#cb17-100"></a>  <span class="fu">labs</span>(<span class="at">x =</span> <span class="st">"Other Currency"</span>, <span class="at">y =</span> <span class="st">"Cappuccino Index"</span>) <span class="sc">+</span></span>
+<span id="cb17-101"><a href="#cb17-101"></a>  <span class="fu">theme_minimal</span>()</span>
+<span id="cb17-102"><a href="#cb17-102"></a>plot2</span>
+<span id="cb17-103"><a href="#cb17-103"></a></span>
+<span id="cb17-104"><a href="#cb17-104"></a>(plot1 <span class="sc">+</span> plot2) <span class="sc">&amp;</span> </span>
+<span id="cb17-105"><a href="#cb17-105"></a>  <span class="fu">coord_cartesian</span>(<span class="at">ylim =</span> <span class="fu">c</span>(<span class="dv">0</span>, <span class="dv">180</span>)) <span class="sc">&amp;</span> </span>
+<span id="cb17-106"><a href="#cb17-106"></a>  <span class="fu">theme</span>(<span class="at">axis.text.x =</span> <span class="fu">element_blank</span>(), <span class="at">axis.ticks.x =</span> <span class="fu">element_blank</span>()) <span class="sc">&amp;</span></span>
+<span id="cb17-107"><a href="#cb17-107"></a>  <span class="fu">plot_annotation</span>(<span class="at">title =</span> <span class="st">"The Cappucino Index"</span>, <span class="at">subtitle =</span> <span class="st">"In Euro vs Non-Euro Using Countries"</span>, <span class="at">caption =</span> <span class="st">"Eliza Palmer, 9/14/2026, Data from James Hoffmann"</span>,</span>
+<span id="cb17-108"><a href="#cb17-108"></a>                  <span class="at">theme =</span> <span class="fu">theme</span>(<span class="at">plot.title =</span> <span class="fu">element_text</span>(<span class="at">hjust =</span> <span class="fl">0.5</span>, <span class="at">face =</span> <span class="st">"bold"</span>, <span class="at">size =</span> <span class="dv">16</span>), <span class="at">plot.subtitle =</span> <span class="fu">element_text</span>(<span class="at">hjust =</span> <span class="fl">0.5</span>), <span class="at">plot.caption =</span> <span class="fu">element_text</span>(<span class="at">size =</span> <span class="dv">6</span>)))</span>
+<span id="cb17-109"><a href="#cb17-109"></a></span>
+<span id="cb17-110"><a href="#cb17-110"></a></span>
+<span id="cb17-111"><a href="#cb17-111"></a><span class="in">```</span></span>
+<span id="cb17-112"><a href="#cb17-112"></a></span>
+<span id="cb17-113"><a href="#cb17-113"></a><span class="fu"># Conclusion: There is a clear difference between countries that use Euro currency and countries that don't. However their means are relatively similar as seen on the graph. India is a huge outlier on the graph, which was expected as seen in the video by James Hoffmann. Overall, there are many more countries in the non euro dataset, meaning that it isn't surprising for there to be a much wider span of indexes. </span></span>
 </code></pre></div><button title="Copy to Clipboard" class="code-copy-button" data-in-quarto-modal=""><i class="bi"></i></button></div>
 </div></div></div></div></div>
 </div> <!-- /content -->

diff --git a/index.html b/index.html
@@ -457,7 +457,7 @@ cookieconsent.run({
     <div>
     <div class="quarto-title-meta-heading">Published</div>
     <div class="quarto-title-meta-contents">
-      <p class="date">Friday, September 11, 2026</p>
+      <p class="date">Sunday, September 13, 2026</p>
     </div>
   </div>
   
@@ -469,8 +469,8 @@ cookieconsent.run({
 </header><p>Welcome to my online portfolio for COMP/STAT112 course taken at <a href="https://www.macalester.edu/">Macalester College</a>. Please, use the side bar on the left for navigation.</p>
 <div class="cell">
 <div class="cell-output-display">
-<div class="wordcloud2 html-widget html-fill-item" id="htmlwidget-865d006143e2df529bfe" style="width:100%;height:464px;"></div>
-<script type="application/json" data-for="htmlwidget-865d006143e2df529bfe">{"x":{"word":["welcome","to","comp","stat","212","mac","st paul"],"freq":[10,2,8,8,8,6,6],"fontFamily":"Segoe UI","fontWeight":"bold","color":"random-dark","minSize":0,"weightFactor":18,"backgroundColor":"white","gridSize":0,"minRotation":-0.7853981633974483,"maxRotation":0.7853981633974483,"shuffle":true,"rotateRatio":0.4,"shape":"cardioid","ellipticity":0.65,"figBase64":null,"hover":null},"evals":[],"jsHooks":{"render":[{"code":"function(el,x){\n                        console.log(123);\n                        if(!iii){\n                          window.location.reload();\n                          iii = False;\n\n                        }\n  }","data":null}]}}</script>
+<div class="wordcloud2 html-widget html-fill-item" id="htmlwidget-97b7e4bb6d5f173a12f5" style="width:100%;height:464px;"></div>
+<script type="application/json" data-for="htmlwidget-97b7e4bb6d5f173a12f5">{"x":{"word":["welcome","to","comp","stat","212","mac","st paul"],"freq":[10,2,8,8,8,6,6],"fontFamily":"Segoe UI","fontWeight":"bold","color":"random-dark","minSize":0,"weightFactor":18,"backgroundColor":"white","gridSize":0,"minRotation":-0.7853981633974483,"maxRotation":0.7853981633974483,"shuffle":true,"rotateRatio":0.4,"shape":"cardioid","ellipticity":0.65,"figBase64":null,"hover":null},"evals":[],"jsHooks":{"render":[{"code":"function(el,x){\n                        console.log(123);\n                        if(!iii){\n                          window.location.reload();\n                          iii = False;\n\n                        }\n  }","data":null}]}}</script>
 </div>
 </div>
 

diff --git a/404.html b/404.html
@@ -7,7 +7,7 @@
 <meta name="viewport" content="width=device-width, initial-scale=1.0, user-scalable=yes">
 
 
-<title>quarto-input38cdd49a91ae7667 – COMP/STAT212 Portfolio</title>
+<title>quarto-input908c7ebd99552da5 – COMP/STAT212 Portfolio</title>
 <style>
 /* Default styles provided by pandoc.
 ** See https://pandoc.org/MANUAL.html#variables-for-html for config info.
